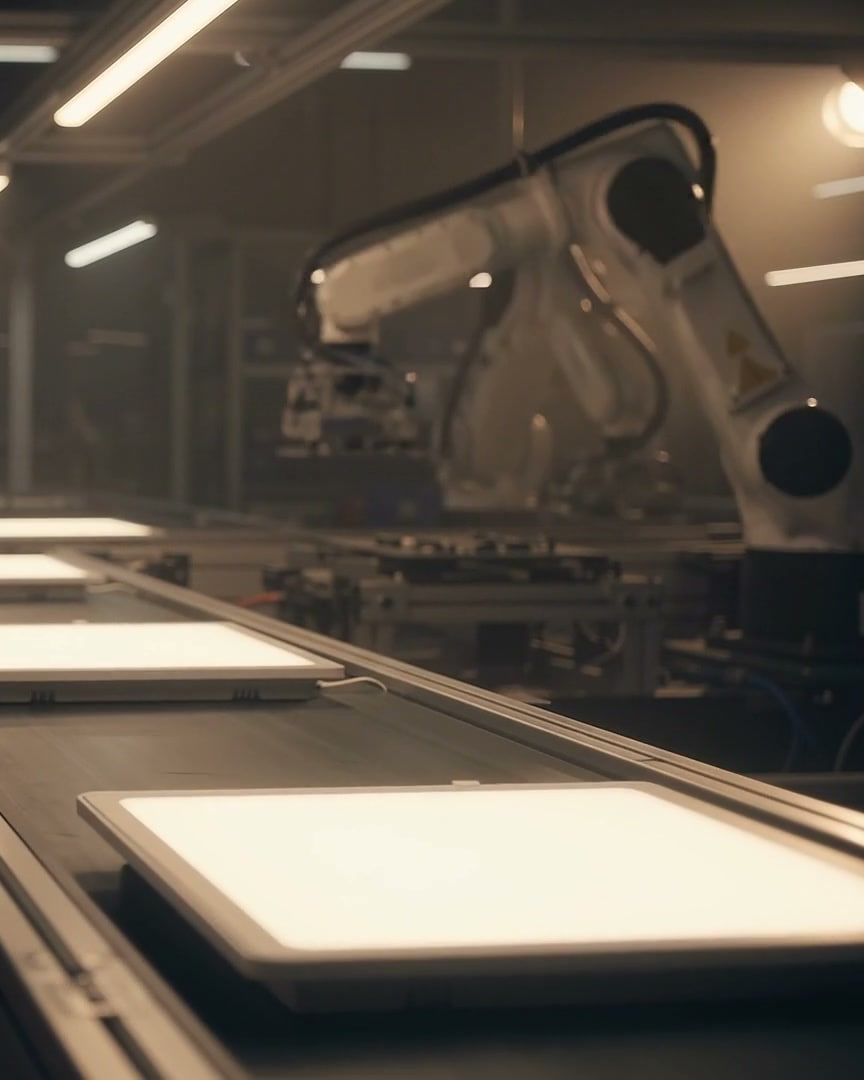
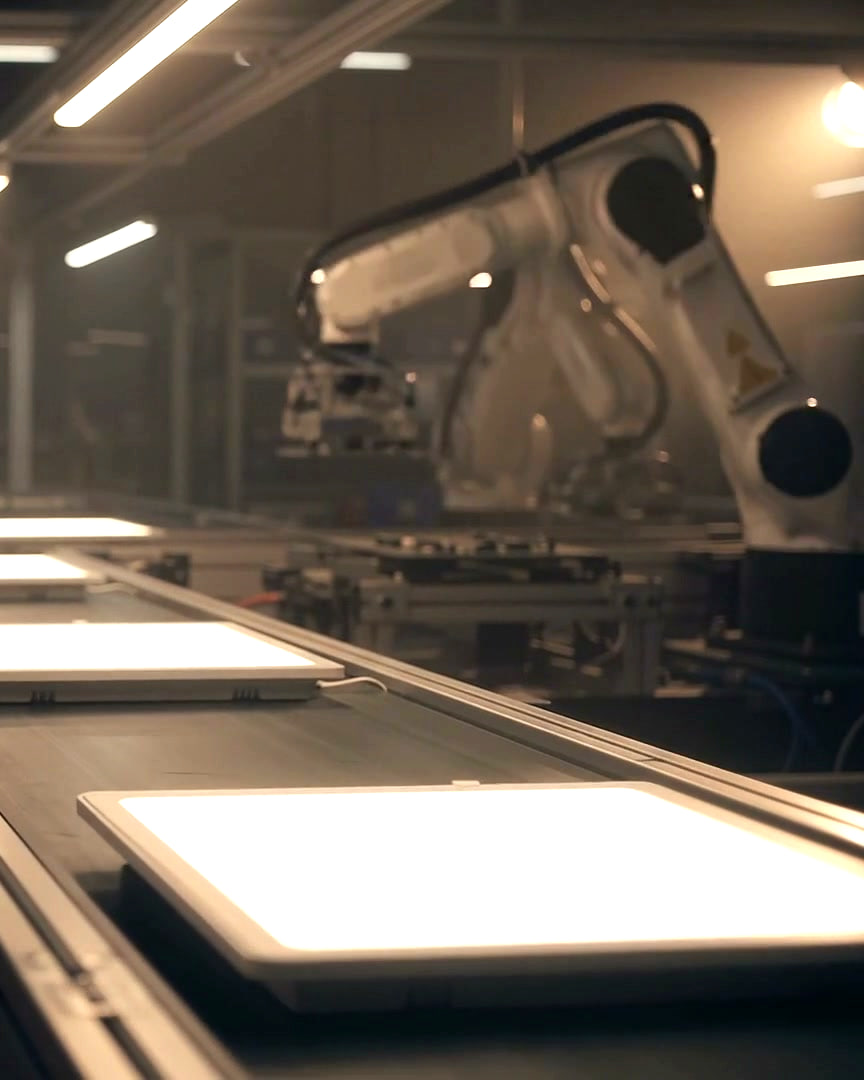
first

diff --git a/components/media/AmbientVideo.tsx b/components/media/AmbientVideo.tsx
@@ -13,7 +13,8 @@ type AmbientVideoProps = {
   /** Server-rendered image of the loop's first frame (usually the page's LCP image). */
   poster: ReactNode;
   labels: { pause: string; play: string };
-  className?: string;
+  /** Must position the box (e.g. "absolute inset-0" or "relative aspect-video"). */
+  className: string;
 };
 
 /** An in-page ambient film: poster, muted loop over it and — once it plays — a pause control. */
@@ -22,7 +23,7 @@ export function AmbientVideo({ sources, poster, labels, className }: AmbientVide
   const [active, setActive] = useState(false);
 
   return (
-    <div className={cn("relative overflow-hidden", className)}>
+    <div className={cn("overflow-hidden", className)}>
       {poster}
       <LoopVideo
         sources={sources}

diff --git a/CONTENT-TODO.md b/CONTENT-TODO.md
@@ -3,7 +3,7 @@
 Generated by `npm run content:todo` from `content/` and `messages/`. Do not edit by hand — fix the
 source value (replace the `[[CONFIRM: …]]` string or remove the `confirm` flag) and re-run.
 
-**Open:** 146 values to supply · 30 records or names to confirm · 51 media files still placeholders.
+**Open:** 146 values to supply · 30 records or names to confirm · 8 media files still placeholders.
 
 ## Open items outside the content files
 
@@ -13,7 +13,6 @@ source value (replace the `[[CONFIRM: …]]` string or remove the `confirm` flag
 | Email notification on new inquiry (SES/Lambda) — not set up | Inquiries are stored in the Amplify `Inquiry` table only. Add an SES-backed function or a DynamoDB stream trigger to email the sales inbox. |
 | Form reply promise | The success message says "we reply within one business day" (`form.success` in messages/*.json). Confirm or change the commitment. |
 | Logo | Supply `public/media/brand/logo.svg`, `logo-mark.svg` and `logo-white.svg`. Until then the site renders a typographic "AL BAYAN" wordmark. |
-| Hero video | Place source clips in `media-src/hero/desktop.mp4` and `media-src/hero/mobile.mp4`, then run `npm run media:hero`. Until then the hero uses the CSS light field. |
 | Legal pages | Privacy and terms text (`legal` in messages/*.json) is a draft. Have it reviewed by the client's legal adviser. |
 | Arabic copy | All Arabic copy (every `ar` field in content/ and all of messages/ar.json) was written for client review. See the section at the end. |
 
@@ -255,54 +254,11 @@ Drop real files at these exact paths and sizes (see README → "Adding real medi
 
 | Path | Size |
 |---|---|
-| public/media/hero/poster-desktop.jpg | 1920×1080 |
-| public/media/hero/poster-mobile.jpg | 1080×1920 |
-| public/media/home/factory-overview.jpg | 2400×1600 |
-| public/media/home/qc-lab.jpg | 2400×1600 |
-| public/media/home/doha-night.jpg | 2880×1200 |
-| public/media/home/traceability-label.jpg | 2400×1600 |
-| public/media/home/cct-scene.jpg | 2400×1500 |
-| public/media/products/led-panels.jpg | 1600×2000 |
-| public/media/products/downlights-spotlights.jpg | 1600×2000 |
-| public/media/products/linear-batten.jpg | 1600×2000 |
-| public/media/products/high-bay-industrial.jpg | 1600×2000 |
-| public/media/products/floodlights-area.jpg | 1600×2000 |
-| public/media/products/street-roadway.jpg | 1600×2000 |
-| public/media/products/facade-architectural.jpg | 1600×2000 |
-| public/media/products/led-strips-profiles.jpg | 1600×2000 |
-| public/media/products/drivers-electronics.jpg | 1600×2000 |
-| public/media/products/smart-connected.jpg | 1600×2000 |
-| public/media/products/custom-oem.jpg | 1600×2000 |
-| public/media/solutions/commercial-offices.jpg | 2400×1600 |
-| public/media/solutions/industrial-warehouses.jpg | 2400×1600 |
-| public/media/solutions/infrastructure-roads.jpg | 2400×1600 |
-| public/media/solutions/hospitality.jpg | 2400×1600 |
 | public/media/solutions/retail-malls.jpg | 2400×1600 |
 | public/media/solutions/education-healthcare.jpg | 2400×1600 |
 | public/media/solutions/sports-outdoor.jpg | 2400×1600 |
-| public/media/solutions/residential-villas.jpg | 2400×1600 |
-| public/media/solutions/mosques-public.jpg | 2400×1600 |
-| public/media/manufacturing/smt-line.jpg | 2400×1600 |
-| public/media/manufacturing/assembly-line.jpg | 2400×1600 |
-| public/media/manufacturing/aging-racks.jpg | 2400×1600 |
 | public/media/manufacturing/ip-test.jpg | 2400×1600 |
-| public/media/manufacturing/thermal-imaging.jpg | 2400×1600 |
-| public/media/manufacturing/calibration-bench.jpg | 2400×1600 |
-| public/media/manufacturing/warehouse.jpg | 2400×1600 |
-| public/media/manufacturing/engineer.jpg | 2400×1600 |
-| public/media/projects/project-01.jpg | 2400×1600 |
-| public/media/projects/project-02.jpg | 2400×1600 |
-| public/media/projects/project-03.jpg | 2400×1600 |
-| public/media/projects/project-04.jpg | 2400×1600 |
-| public/media/projects/project-05.jpg | 2400×1600 |
 | public/media/projects/project-06.jpg | 2400×1600 |
-| public/media/about/factory-exterior.jpg | 2880×1620 |
-| public/media/about/team.jpg | 2400×1600 |
-| public/media/og/og-default.jpg | 1200×630 |
-| public/media/hero/hero-desktop.webm | see README |
-| public/media/hero/hero-desktop.mp4 | see README |
-| public/media/hero/hero-mobile.webm | see README |
-| public/media/hero/hero-mobile.mp4 | see README |
 | public/media/brand/logo.svg | vector |
 | public/media/brand/logo-mark.svg | vector |
 | public/media/brand/logo-white.svg | vector |
@@ -319,4 +275,4 @@ native-speaking member of the client's team before launch. Technical terms (LED,
 | content/solutions.ts | 45 |
 | content/projects.ts | 24 |
 | content/manufacturing.ts | 82 |
-| messages/ar.json | 326 |
+| messages/ar.json | 328 |
